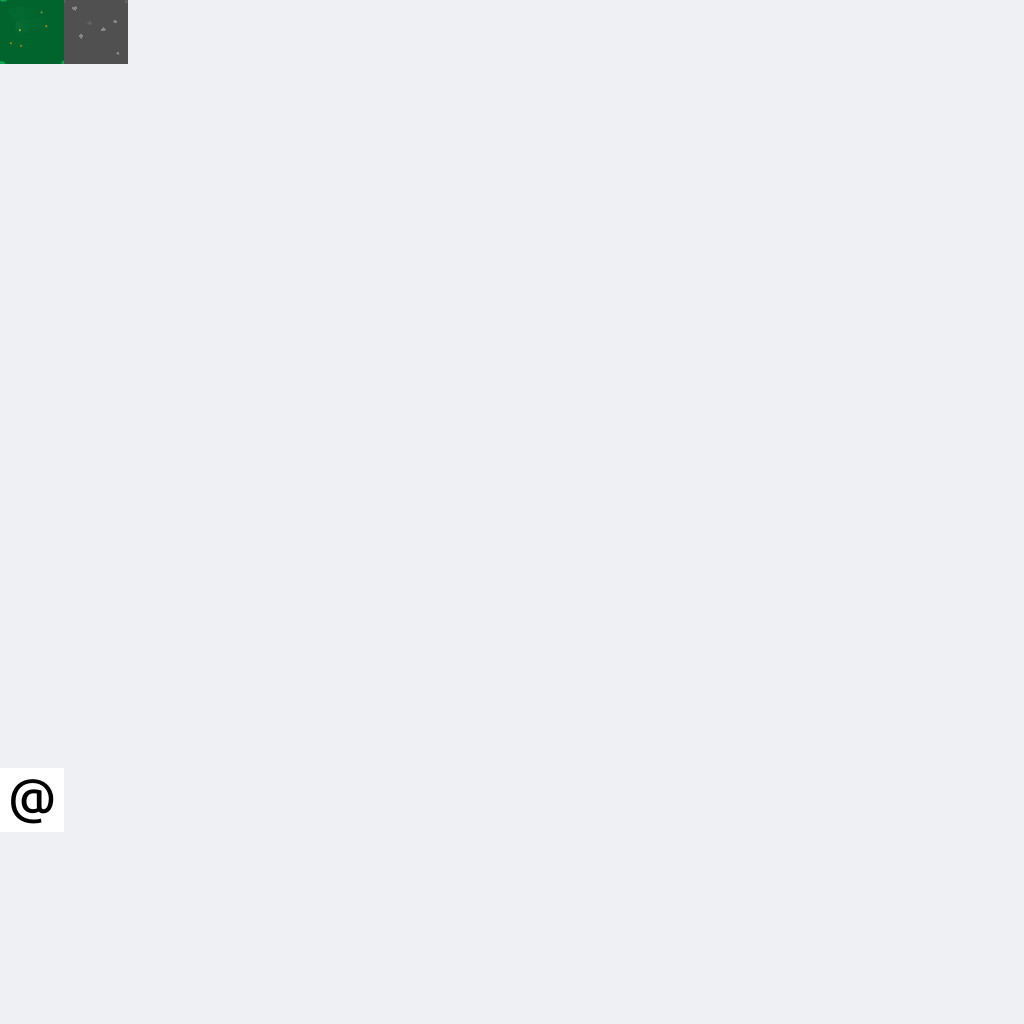
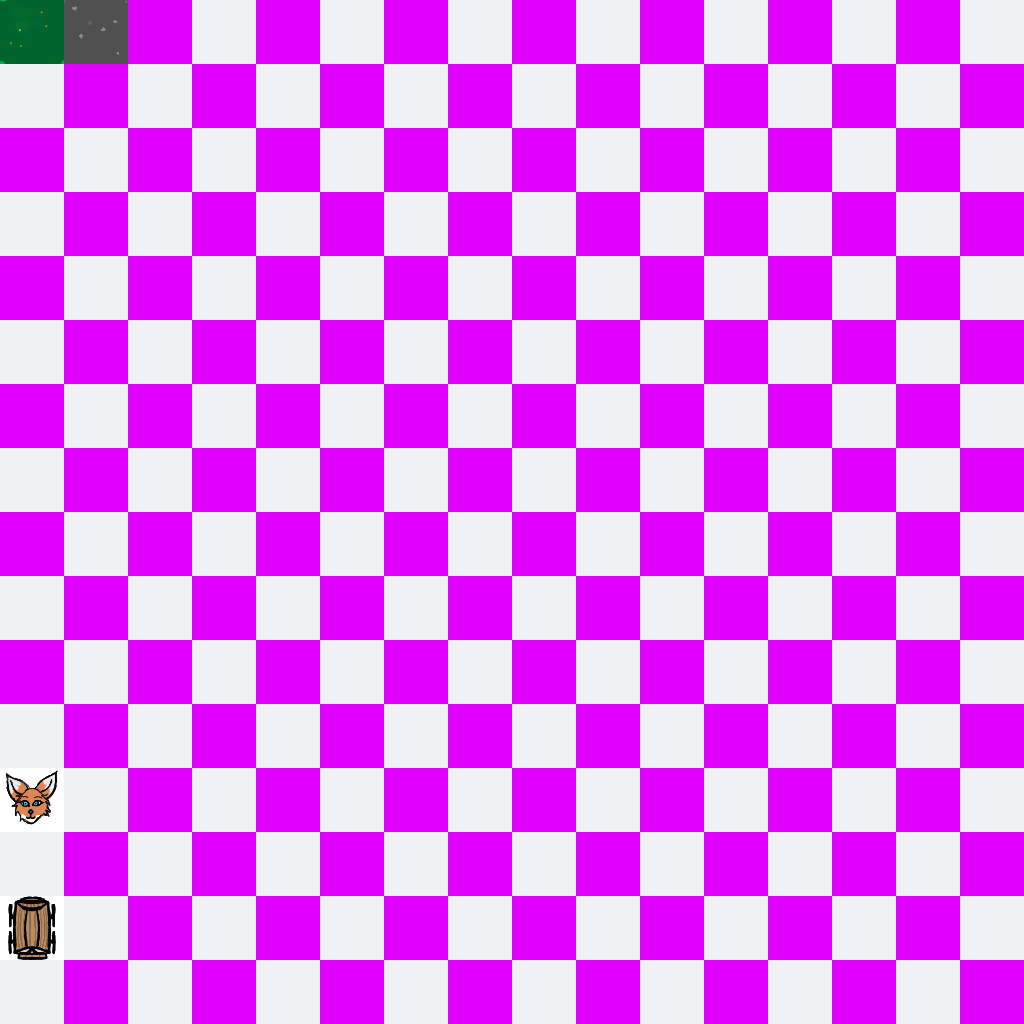
Some more programmer art, dep updates

diff --git a/src/genesis/rendering/atlases/TextureAtlas.cpp b/src/genesis/rendering/atlases/TextureAtlas.cpp
@@ -8,10 +8,15 @@ TextureAtlas::TextureAtlas(const std::string& sourceFile)
         : Texture(sourceFile, 64, 64),
         atlasUnits(width / atlasTileWidth) {
     // temporary map metadata. This will eventually need to be outsourced somewhere else
+    // Maybe. I don't know, modding is so far into the future that it's probably not worth
+    // adding support for necessary bits until I need it.
     std::map<int, std::string> temporaryMetadata {
-        {0, "genesis:grass"},
-        {1, "genesis:stone"},
-        {12 * 16, "genesis:colonist_a"}
+        {0 * 16 + 0, "genesis:grass"},
+        {0 * 16 + 1, "genesis:stone"},
+
+        {12 * 16 + 0, "genesis:colonist_a"},
+
+        {14 * 16 + 0, "genesis:caravan"},
     };
 
     for (auto& [tilePos, tileIdentifier] : temporaryMetadata) {

diff --git a/src/genesis/core/menu/Menu.cpp b/src/genesis/core/menu/Menu.cpp
@@ -41,7 +41,6 @@ const std::vector<std::shared_ptr<EntityController>>& MenuScene::getEntityContro
 // MenuController {{{
 MenuController::MenuController() {
     auto play = std::make_shared<TextEntity>("Play", 200, 200, 1, glm::vec4{ 1.0, 0.0, 1.0, 1.0 });
-    play->setText("This is sparta");
     play->ID = BTN_PLAY;
 
     entities.push_back(play);

diff --git a/src/genesis/Main.cpp b/src/genesis/Main.cpp
@@ -26,6 +26,8 @@ int main() {
         std::cerr << "Exception caught: " << e.what() << std::endl;
     } catch (const char* e) {
         std::cerr << "Char exception caught: " << e << std::endl;
+    } catch (const std::string& e) {
+        std::cerr << "String exception caught: " << e << std::endl;
     }
 #endif
 }
